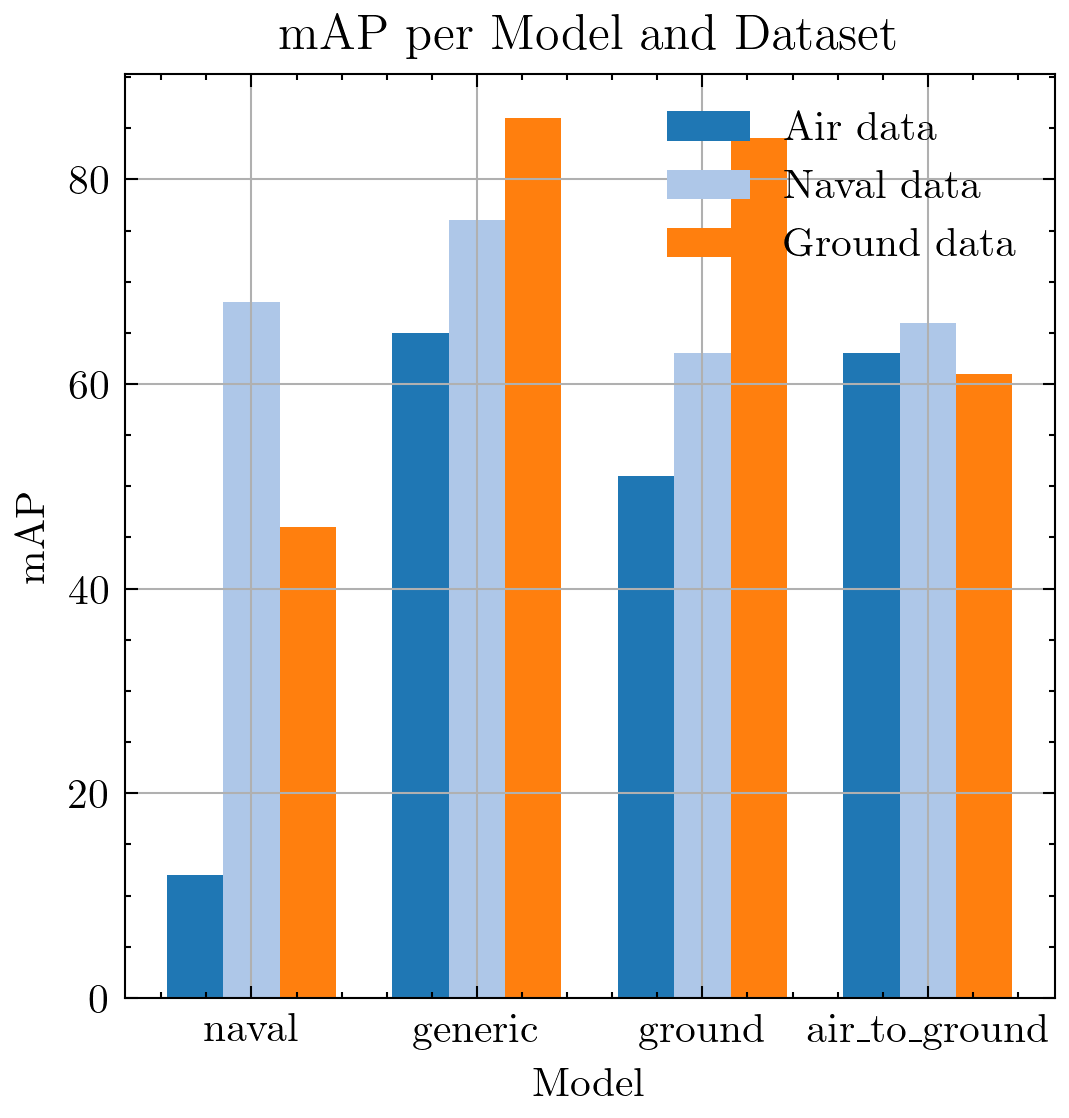
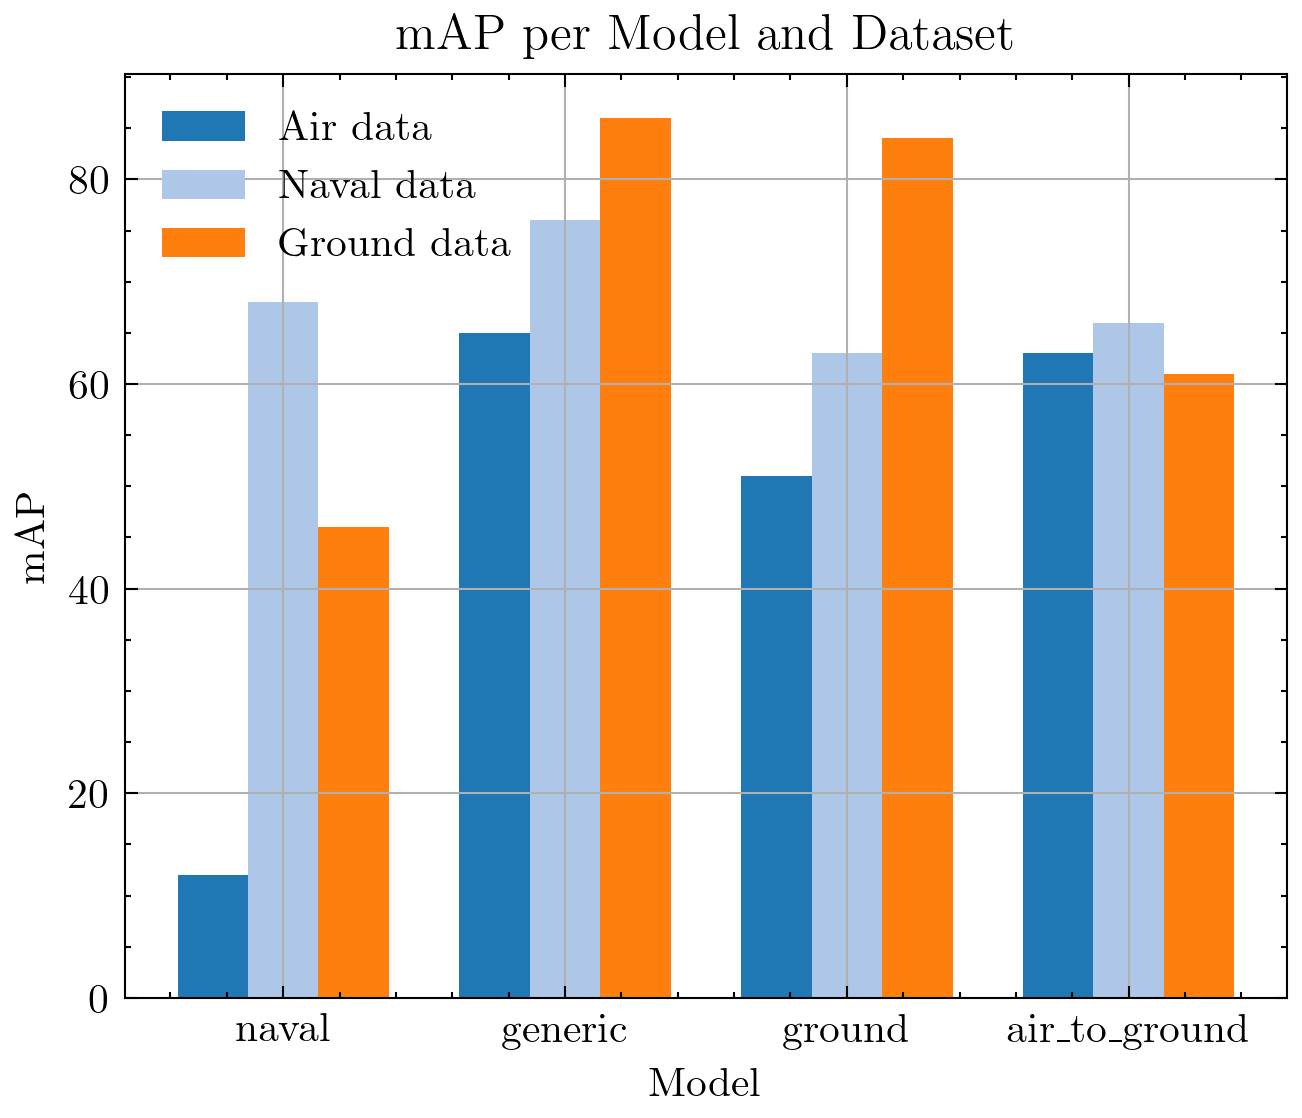
auto commit

diff --git a/yolo_loss_analysis/alt_dataset_experiment.py b/yolo_loss_analysis/alt_dataset_experiment.py
@@ -79,7 +79,7 @@ metrics = df["metric"].unique()  # Get unique metrics names
 df.to_csv("overview_results_re.csv", index=False)
 
 # Plot bars for each metric for each model
-bar_width = 0.8 / len(metrics)  # Width of each bar
+bar_width = 0.8  # Width of each bar
 # models = df.model.unique()
 maps = list(df[df["metric"] == "mAP50"]["value"])
 # models = df[df["metric"] == "mAP50"]["model"]
@@ -87,24 +87,21 @@ maps = list(df[df["metric"] == "mAP50"]["value"])
 map_sort = np.argsort(maps)[::-1]
 print(map_sort)
 
-fig, ax = plt.subplots(figsize=(4, 3))  # Set the size of the figure
+fig, ax = plt.subplots(figsize=(5, 4))  # Set the size of the figure
 
 colors = plt.cm.tab20.colors  # Get a list of colors for each metric
-for i, metric in enumerate(metrics):
+for i, metric in enumerate(metrics[-1:]):
     x = np.arange(len(models))  # [map_sort]
-    print(x)
     y = np.array(df[df["metric"] == metric]["value"])[map_sort]  # Y-axis values
-    print(y)
-    ax.bar(x + i * bar_width - 0.4, y, width=bar_width, label=metric, color=colors[i])
-
+    ax.bar(x, y, width=bar_width, label=metric, color=colors[i])
 
 ax.set_xticks(range(len(models)))  # Set ticks on X-axis
 ax.set_xticklabels(
     models[map_sort], rotation=45, ha="right"
 )  # Set labels on X-axis with rotation
-ax.set_ylabel("Value")  # Set label for Y-axis
+ax.set_ylabel("mAP")  # Set label for Y-axis
 ax.set_xlabel("Model")  # Set label for X-axis
-ax.legend()  # Add legend
+# ax.legend()  # Add legend
 plt.grid(1)
 plt.tight_layout()  # Ensure tight layout
 plt.savefig("exp_external_datasets.pdf", dpi=300)  # Save plot in vector format (PDF)

diff --git a/yolo_loss_analysis/eval_comparison.py b/yolo_loss_analysis/eval_comparison.py
@@ -125,7 +125,7 @@ r2 = [x + bar_width for x in r1]
 r3 = [x + bar_width for x in r2]
 
 # Create the bar chart
-plt.figure(figsize=(4, 4))
+plt.figure(figsize=(5, 4))
 colors = plt.cm.tab20.colors
 plt.bar(r1, air_means, width=bar_width, label="Air data", color=colors[0])
 plt.bar(r2, naval_means, width=bar_width, label="Naval data", color=colors[1])
